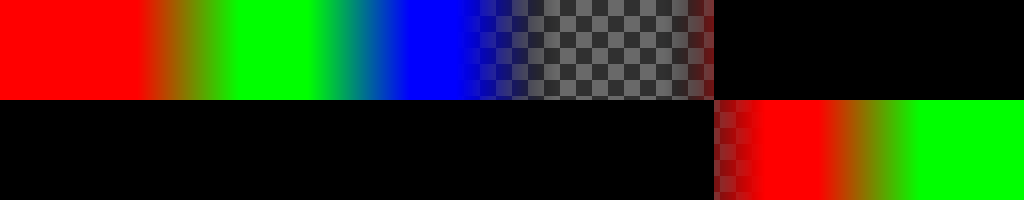
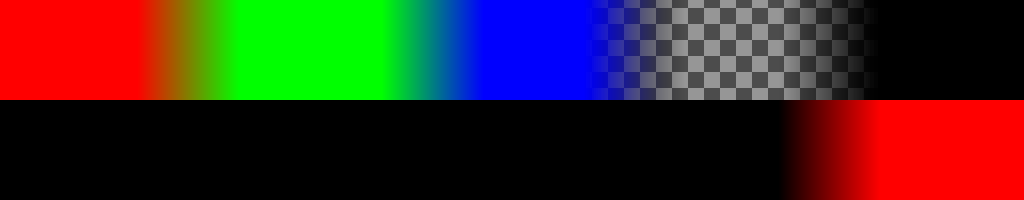
Update gradient blend map documentation

diff --git a/Runtime/Scripts/VisAssets/GradientBlendMap.cs b/Runtime/Scripts/VisAssets/GradientBlendMap.cs
@@ -69,7 +69,10 @@ namespace IVLab.ABREngine
         public float[] HeightWidthAspectRatios { get; private set; }
 
         /// <summary>
-        /// The actual combined texture that contains all visassets, stacked together vertically
+        /// The actual combined texture that contains all visassets, stacked
+        /// together vertically. For a gradient with 5 line texture elements, it
+        /// might look something like this:
+        /// <img src="./resources/textures.png"/>
         /// </summary>
         public Texture2D Textures { get; private set; }
 
@@ -227,10 +230,11 @@ namespace IVLab.ABREngine
             // To generate stopmap.png and blendmap.png, uncomment this whole section.
             // Then, build the RGB blend by running the engine.
             // Next, build the Alpha blend by setting `buildAlpha` to true and running the engine again.
+            // Uncomment the PNG saves below as necessary, and blend them together in GIMP/Photoshop.
             // for (int i = 0; i < blendMapPixels.Length; i++)
             // {
             //     // Build alpha blend
-            //     bool buildAlpha = false;
+            //     bool buildAlpha = true;
             //     if (buildAlpha)
             //     {
             //         if (blendMapPixels[i].a > 0)
@@ -268,9 +272,11 @@ namespace IVLab.ABREngine
             StopMaps.SetPixels(stopMapPixels);
             StopMaps.Apply();
 
+            Textures = TextureUtilities.MakeTextureGradientVertical(textures);
+
             // DEBUG: Save blendmap and stopmap for documentation
-            // System.IO.File.WriteAllBytes("./blendmap.png", BlendMaps.EncodeToPNG());
-            // System.IO.File.WriteAllBytes("./stopmap.png", StopMaps.EncodeToPNG());
+            // System.IO.File.WriteAllBytes("./blendmap-alpha.png", BlendMaps.EncodeToPNG());
+            // System.IO.File.WriteAllBytes("./stopmap-alpha.png", StopMaps.EncodeToPNG());
             // System.IO.File.WriteAllBytes("./textures.png", Textures.EncodeToPNG());
 
             // Calculate the aspect ratio of each texture in the set (in
@@ -286,8 +292,6 @@ namespace IVLab.ABREngine
                 AspectRatios[t] = aspect;
                 HeightWidthAspectRatios[t] = hwAspect;
             }
-
-            Textures = TextureUtilities.MakeTextureGradientVertical(textures);
         }
     }
 }
